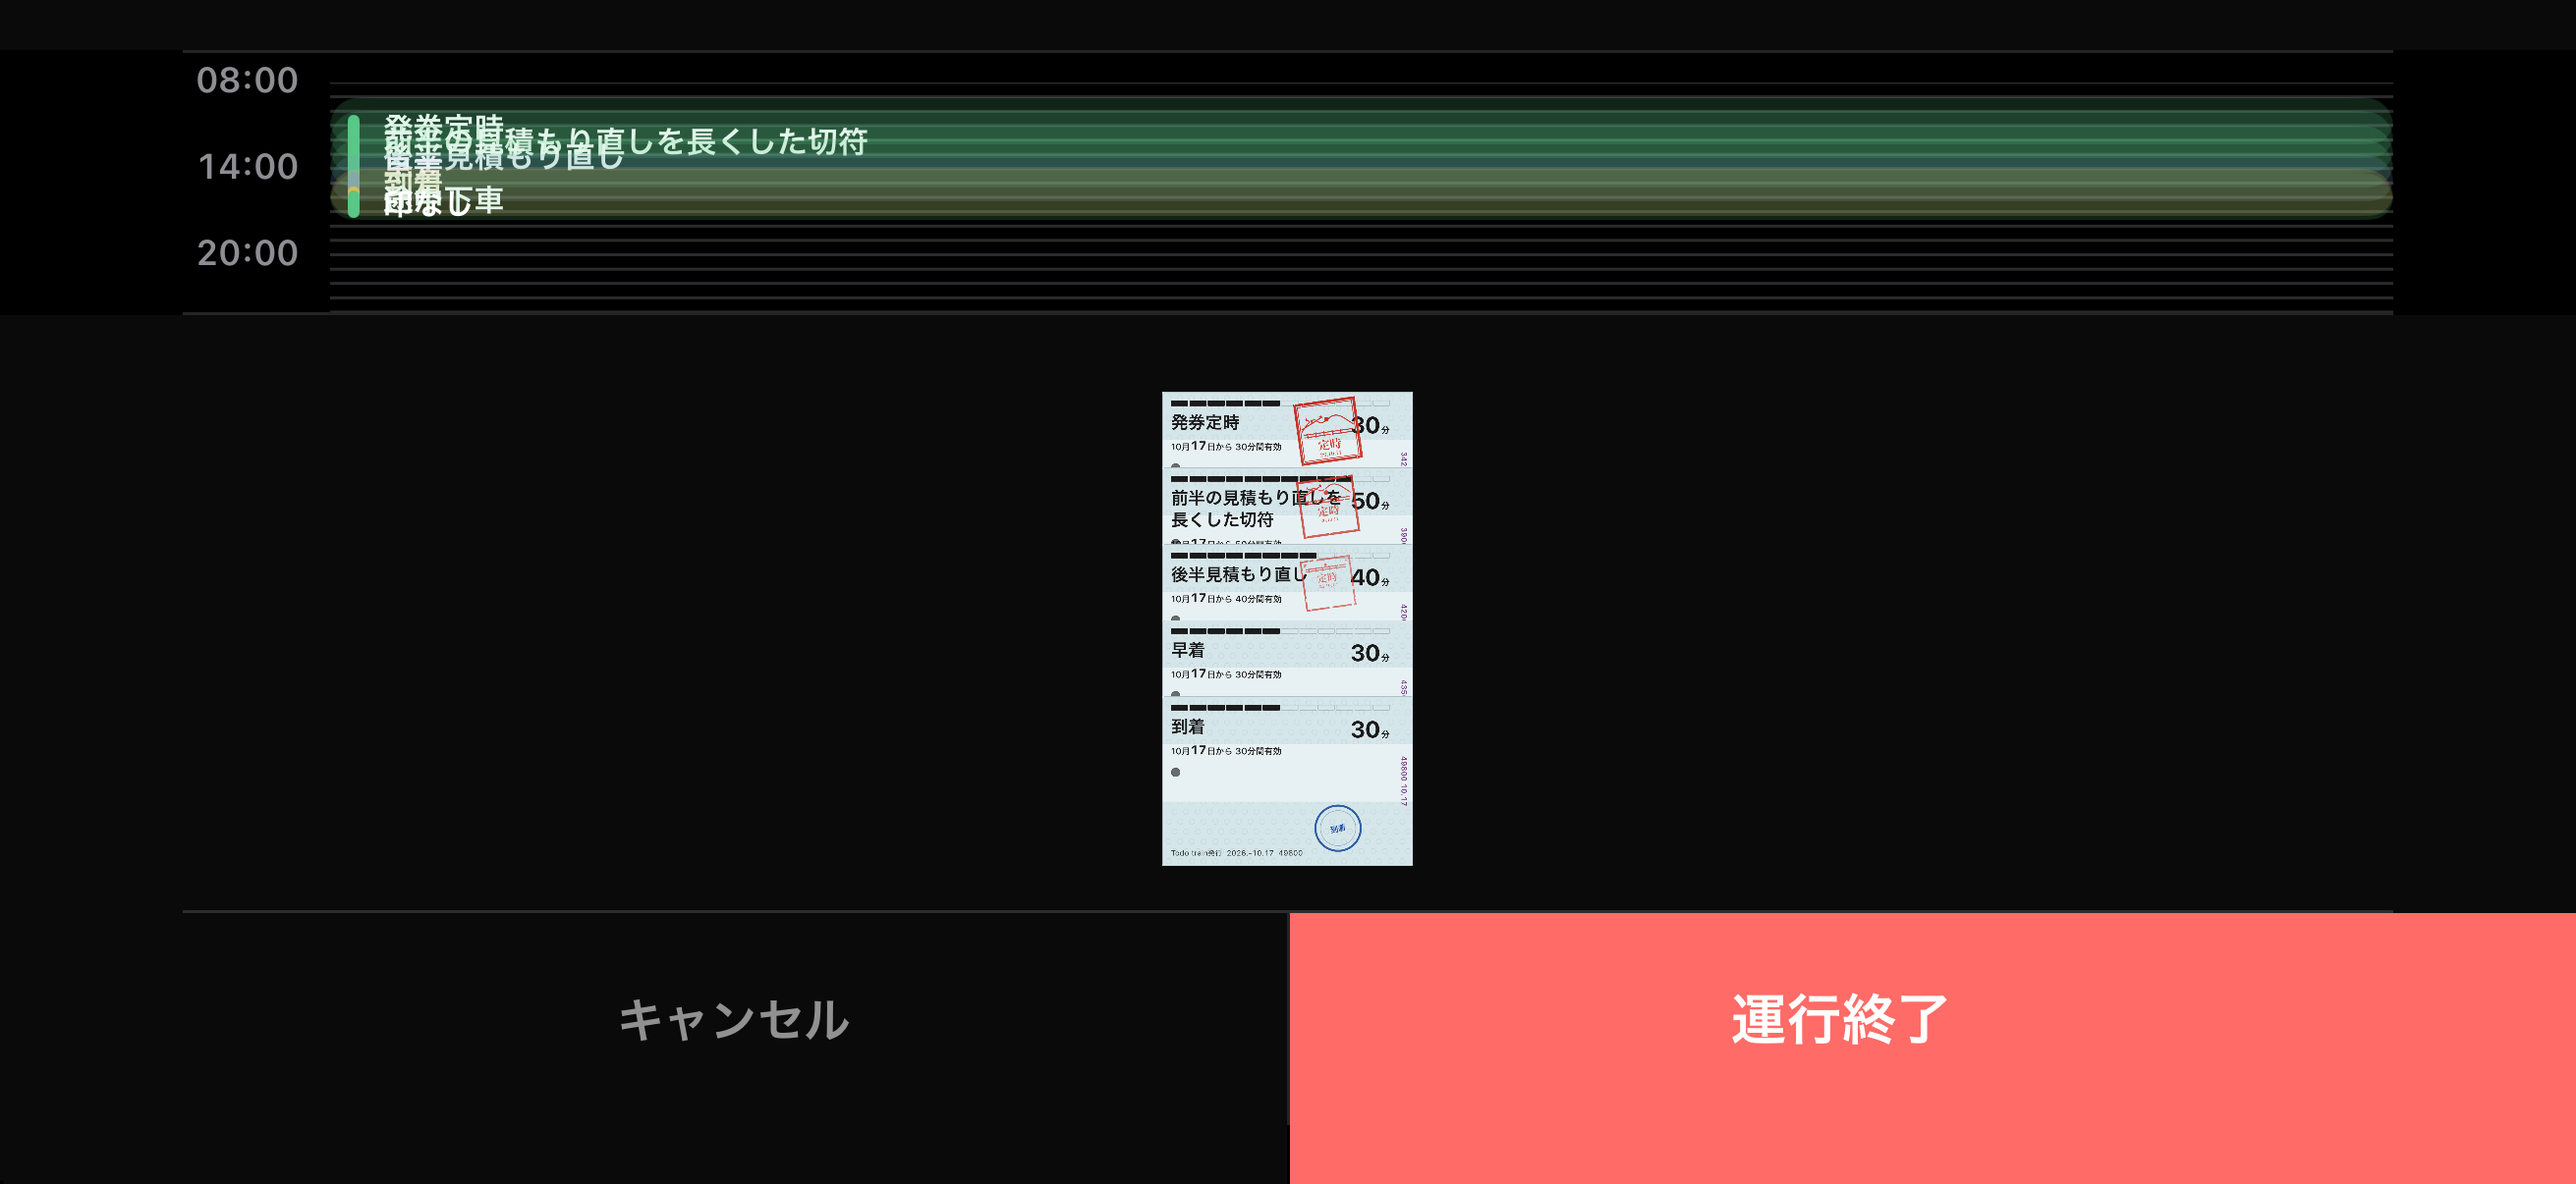
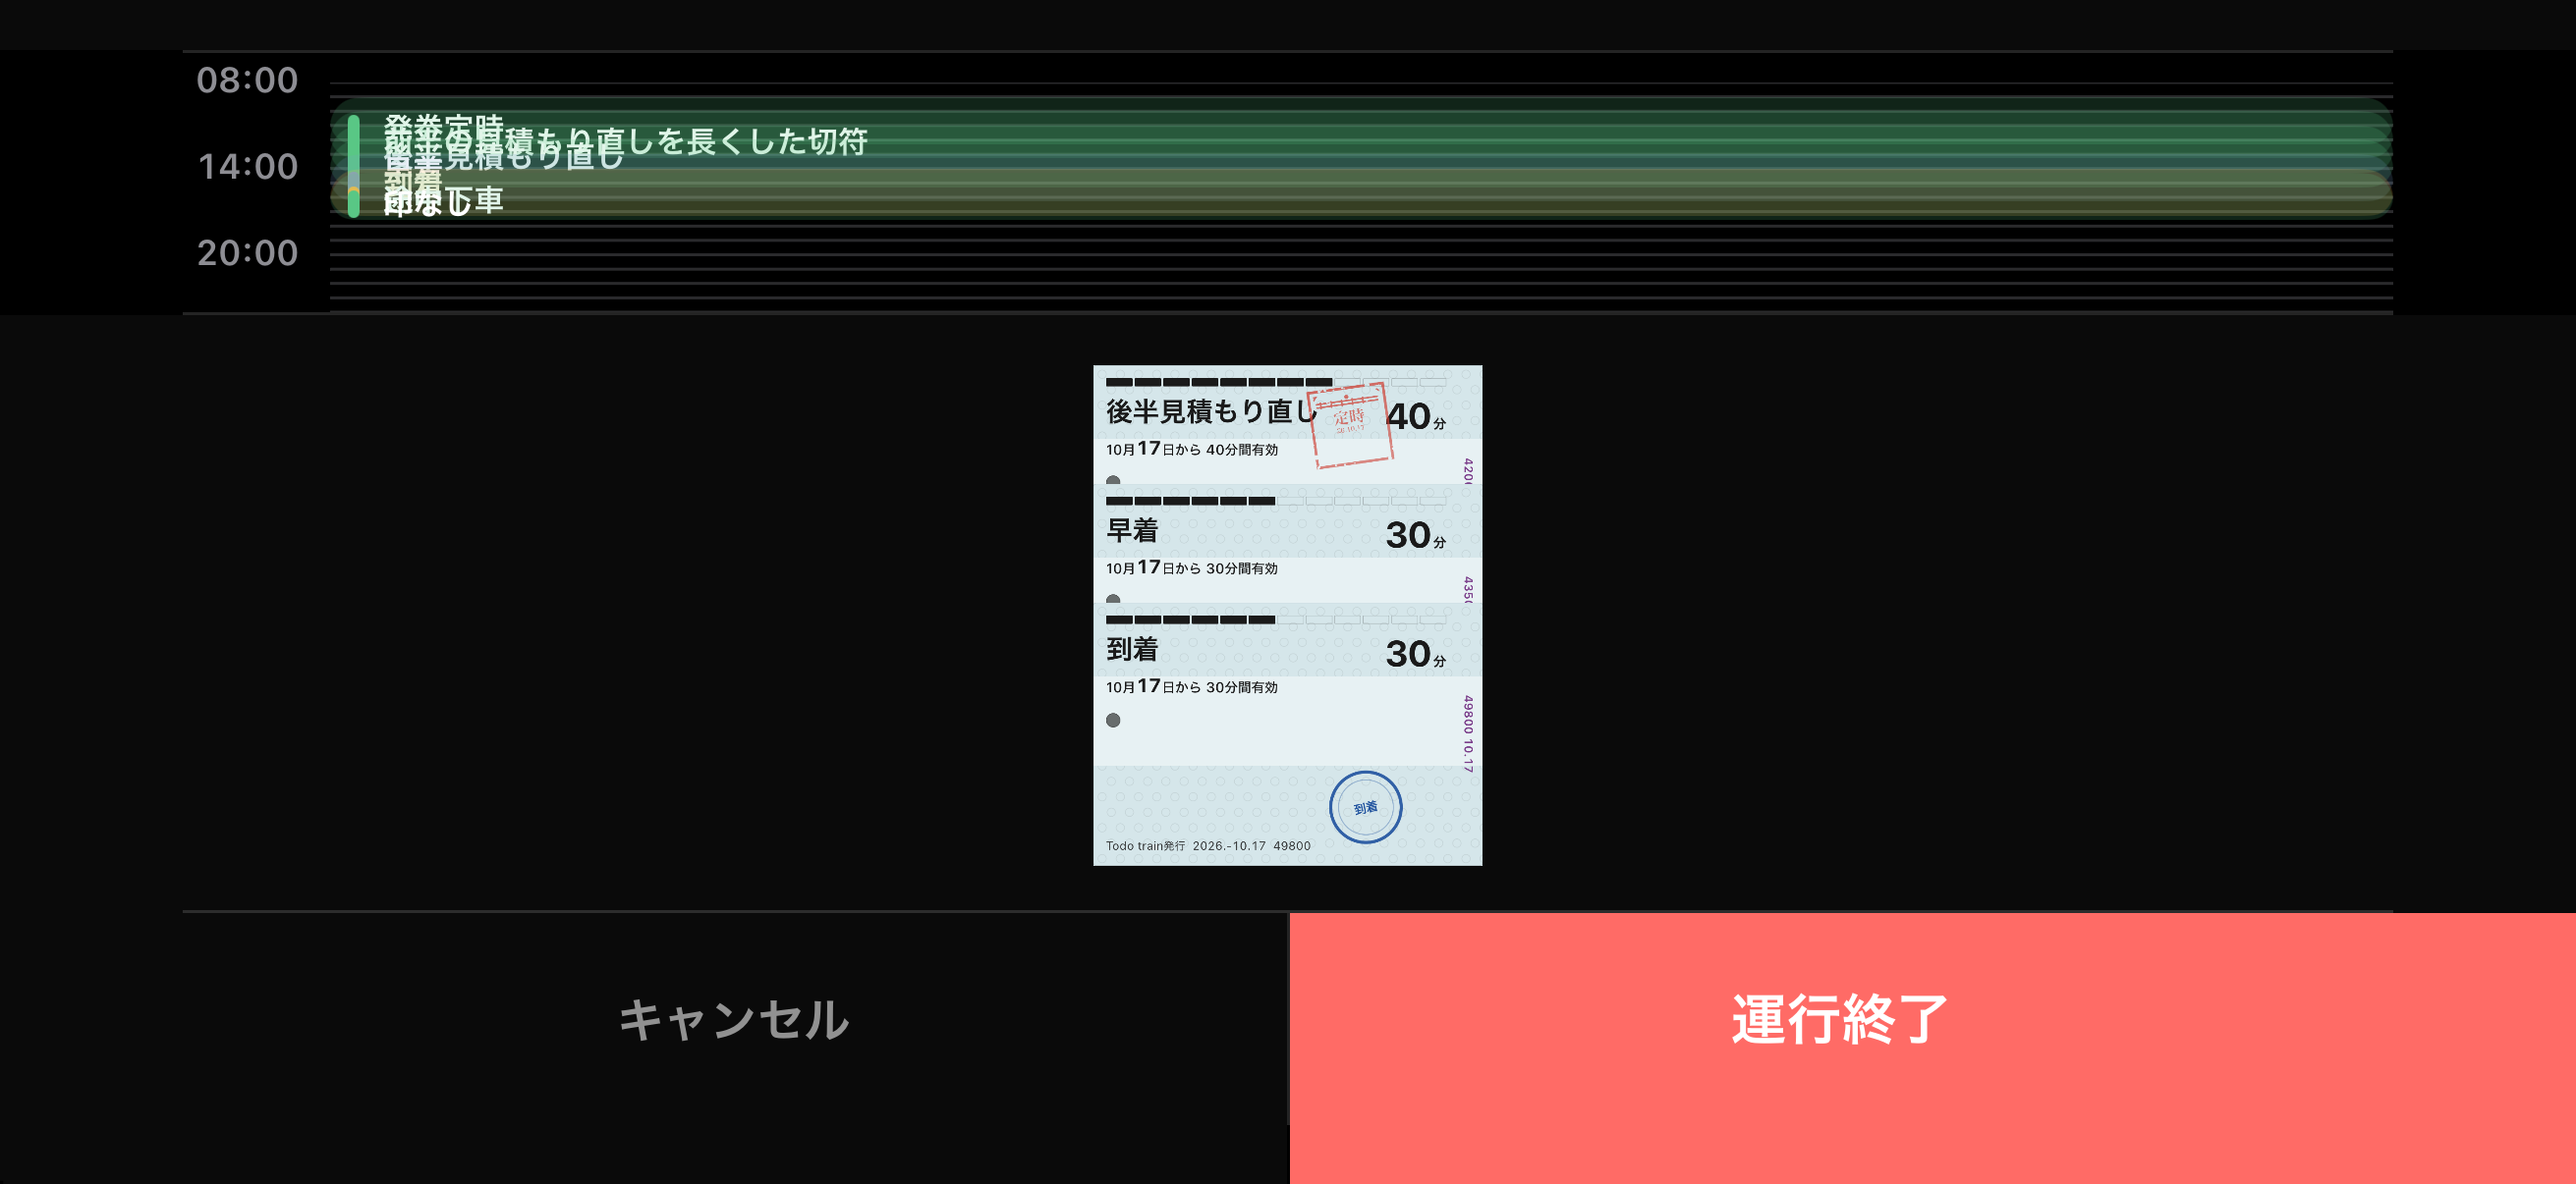
#171 PR C: 運行終了のタイムラインが読める高さを残す
束の帯が時計を約 100pt まで潰していた。帯の上限に当たったら切符を縮める前に奥行きを 4 から 3、足りなければ 2 に下げる。幅はこれまでより狭くしない。

Changed region(s): [[0.4016, 0.3068, 0.587, 0.7363]]

diff --git a/Todo train/Core/History/TicketStampBundleLayout.swift b/Todo train/Core/History/TicketStampBundleLayout.swift
@@ -14,6 +14,12 @@ enum TicketStampBundleLayout {
     static let peekRatio: CGFloat = 0.45
     static let standardMaxFanDepth = 4
     static let historyMaxFanDepth = 2
+    /// 運行終了で帯が上限を超えたとき、これより浅くはしない。
+    static let shutdownDepthFloor = 2
+    /// 運行終了のタイムラインに残す高さ。これより帯を高くしない。
+    static let shutdownTimelineMinimumHeight: CGFloat = 240
+    /// 前文と時計が同時に入らないときの時計の下限（`minimumClockHeight` + 余白）。
+    static let shutdownClockFloor: CGFloat = 92
     /// 手前の切符だけ、指の横移動にこの割合で付く。
     static let dragFollow: CGFloat = 0.28
     /// 付随の上限。シャトルで大きく動かしても券面が流れ出さない。
@@ -95,6 +101,79 @@ enum TicketStampBundleLayout {
         let height = room > 0 ? min(naturalH, room / factor) : min(naturalH, 1)
         let width = height * MarsTicketSpec.aspectWidth / MarsTicketSpec.aspectHeight
         return TicketSize(width: width, height: height, scale: width / baseWidth)
+    }
+
+    struct ShutdownArrangement: Equatable {
+        var depth: Int
+        var ticket: TicketSize
+        var bandHeight: CGFloat
+    }
+
+    /// 帯の上限に収まるいちばん深い奥行き。4 から試し、超えたら 3、それでも超えたら 2。
+    static func shutdownDepth(
+        ticketHeight: CGFloat,
+        bandLimit: CGFloat,
+        stampCount: Int
+    ) -> Int {
+        let preferred = stackDepth(
+            stampCount: stampCount,
+            focusIndex: max(0, stampCount - 1),
+            style: .shutdown
+        )
+        let floor = min(preferred, shutdownDepthFloor)
+        var depth = preferred
+        while depth > floor && bandHeight(ticketHeight: ticketHeight, depth: depth) > bandLimit {
+            depth -= 1
+        }
+        return depth
+    }
+
+    /// 運行終了の券面。タイムラインの高さを残す上限に当たったら、切符を縮める前に奥行きを減らす。
+    /// 幅は、時計の下限だけを残して depth 4 で収めたときより狭くしない。
+    static func shutdownArrangement(
+        containerWidth: CGFloat,
+        cabinHeight: CGFloat,
+        prefaceHeight: CGFloat,
+        stampCount: Int
+    ) -> ShutdownArrangement {
+        let fittingPreface = max(0, cabinHeight - shutdownClockFloor - prefaceHeight)
+        let prefaceFits = fittingPreface >= 96
+        let oldLimit = prefaceFits ? fittingPreface : max(0, cabinHeight - shutdownClockFloor)
+        let bandLimit = prefaceFits
+            ? max(0, cabinHeight - prefaceHeight - shutdownTimelineMinimumHeight)
+            : oldLimit
+        let target = shutdownTargetWidth(containerWidth: containerWidth)
+        let natural = MarsTicketSpec.height(forWidth: max(target, 1))
+        let preferred = stackDepth(
+            stampCount: stampCount,
+            focusIndex: max(0, stampCount - 1),
+            style: .shutdown
+        )
+        let floorTicket = fittedTicketSize(
+            targetWidth: target,
+            viewportHeight: max(oldLimit, 1),
+            depth: preferred
+        )
+        let depth = shutdownDepth(
+            ticketHeight: natural,
+            bandLimit: bandLimit,
+            stampCount: stampCount
+        )
+        var ticketHeight = natural
+        if bandHeight(ticketHeight: ticketHeight, depth: depth) > bandLimit {
+            let fitted = fittedTicketSize(
+                targetWidth: target,
+                viewportHeight: max(bandLimit, 1),
+                depth: depth
+            )
+            ticketHeight = max(fitted.height, floorTicket.height)
+        }
+        let width = ticketHeight * MarsTicketSpec.aspectWidth / MarsTicketSpec.aspectHeight
+        return ShutdownArrangement(
+            depth: depth,
+            ticket: TicketSize(width: width, height: ticketHeight, scale: width / baseWidth),
+            bandHeight: bandHeight(ticketHeight: ticketHeight, depth: depth)
+        )
     }
 
     /// 角判の外接矩形。回転後も券面座標。

diff --git a/Todo trainTests/TicketStampBundleLayoutTests.swift b/Todo trainTests/TicketStampBundleLayoutTests.swift
@@ -85,6 +85,52 @@ struct TicketStampBundleLayoutTests {
         #expect(band <= 280)
     }
 
+    @Test func shutdownDepthDropsBeforeShrinkingTheTicket() {
+        let height: CGFloat = 200
+        let band4 = TicketStampBundleLayout.bandHeight(ticketHeight: height, depth: 4)
+        let band3 = TicketStampBundleLayout.bandHeight(ticketHeight: height, depth: 3)
+        let band2 = TicketStampBundleLayout.bandHeight(ticketHeight: height, depth: 2)
+        #expect(TicketStampBundleLayout.shutdownDepth(ticketHeight: height, bandLimit: band4, stampCount: 5) == 4)
+        #expect(TicketStampBundleLayout.shutdownDepth(ticketHeight: height, bandLimit: band4 - 1, stampCount: 5) == 3)
+        #expect(TicketStampBundleLayout.shutdownDepth(ticketHeight: height, bandLimit: band3 - 1, stampCount: 5) == 2)
+        #expect(TicketStampBundleLayout.shutdownDepth(ticketHeight: height, bandLimit: band2 - 1, stampCount: 5) == 2)
+        #expect(TicketStampBundleLayout.shutdownDepth(ticketHeight: height, bandLimit: 10, stampCount: 2) == 1)
+        #expect(TicketStampBundleLayout.shutdownDepth(ticketHeight: height, bandLimit: 10, stampCount: 1) == 0)
+    }
+
+    @Test func shutdownArrangementReservesTheTimelineWithoutNarrowing() {
+        let cabin: CGFloat = 700
+        let preface: CGFloat = 168
+        let width: CGFloat = 360
+        let arrangement = TicketStampBundleLayout.shutdownArrangement(
+            containerWidth: width,
+            cabinHeight: cabin,
+            prefaceHeight: preface,
+            stampCount: 5
+        )
+        #expect(arrangement.depth == 2)
+        let target = TicketStampBundleLayout.shutdownTargetWidth(containerWidth: width)
+        let oldLimit = cabin - TicketStampBundleLayout.shutdownClockFloor - preface
+        let floor = TicketStampBundleLayout.fittedTicketSize(
+            targetWidth: target,
+            viewportHeight: oldLimit,
+            depth: 4
+        )
+        #expect(arrangement.ticket.width + 0.01 >= floor.width)
+        let timeline = cabin - preface - arrangement.bandHeight
+        #expect(timeline + 0.01 >= TicketStampBundleLayout.shutdownTimelineMinimumHeight)
+
+        let loose = TicketStampBundleLayout.shutdownArrangement(
+            containerWidth: 200,
+            cabinHeight: 900,
+            prefaceHeight: 80,
+            stampCount: 6
+        )
+        #expect(loose.depth == 4)
+        let natural = MarsTicketSpec.height(forWidth: TicketStampBundleLayout.shutdownTargetWidth(containerWidth: 200))
+        #expect(abs(loose.ticket.height - natural) < 0.01)
+    }
+
     @Test func cornerSealBoundsStayInsideThePeekAtSixDegrees() {
         let width: CGFloat = 300
         let height = MarsTicketSpec.height(forWidth: width)

diff --git a/Todo train/Features/Service/ServiceShutdownCover.swift b/Todo train/Features/Service/ServiceShutdownCover.swift
@@ -132,27 +132,19 @@ struct ServiceShutdownCover: View {
     private func cabinBody(now: Date) -> some View {
         GeometryReader { geo in
             let stampCount = stampBundle?.stamps.count ?? 0
-            let depth = TicketStampBundleLayout.stackDepth(
-                stampCount: stampCount,
-                focusIndex: max(0, stampCount - 1),
-                style: .shutdown
-            )
             let clockFloor = Self.minimumClockHeight + 4
             let fittingPreface = max(0, geo.size.height - clockFloor - prefaceHeight)
-            let clockOnly = max(0, geo.size.height - clockFloor)
             // 前文まで残すと横向きで束が消える。そのときは前文をスクロールに回し、時計の下限だけ守る。
             let prefaceFits = fittingPreface >= 96
-            let bandLimit = prefaceFits ? fittingPreface : clockOnly
-            let bundleBand = stampCount == 0
-                ? 0
-                : min(
-                    TicketStampBundleDeckView.shutdownBandHeight(
-                        containerWidth: geo.size.width,
-                        bandViewportHeight: bandLimit,
-                        depth: depth
-                    ),
-                    bandLimit
-                )
+            // 盤の余白のぶん、券面の帯より枠は高い。タイムラインの計算は券面の帯で行う。
+            let bandChrome: CGFloat = 33
+            let arrangement = TicketStampBundleLayout.shutdownArrangement(
+                containerWidth: max(0, geo.size.width - 44),
+                cabinHeight: max(0, geo.size.height - bandChrome),
+                prefaceHeight: prefaceHeight,
+                stampCount: stampCount
+            )
+            let bundleBand = stampCount == 0 ? 0 : arrangement.bandHeight + bandChrome
             let scrollHeight = max(0, geo.size.height - bundleBand)
             let clockHeight = max(
                 Self.minimumClockHeight,
@@ -224,7 +216,9 @@ struct ServiceShutdownCover: View {
                             stamps: stampBundle.stamps,
                             focusIndex: $bundleFocusIndex,
                             style: .shutdown,
-                            dayBoundaries: []
+                            dayBoundaries: [],
+                            shutdownDepthCap: arrangement.depth,
+                            shutdownTicket: arrangement.ticket
                         )
                         .padding(.horizontal, 8)
                         .padding(.vertical, 2)

diff --git a/Todo train/DesignSystem/TicketStampBundleDeckView.swift b/Todo train/DesignSystem/TicketStampBundleDeckView.swift
@@ -26,6 +26,10 @@ struct TicketStampBundleDeckView: View {
     var onSelect: (TicketStampBundleAssembly.Stamp) -> Void = { _ in }
     /// 長押しのあと横に固定しているあいだ、ビューアの縦操作を止める。
     var verticalGesturesLocked: Binding<Bool> = .constant(false)
+    /// 運行終了でタイムラインを残すために浅くした奥行き。
+    var shutdownDepthCap: Int? = nil
+    /// 運行終了の券面。帯の中でさらに縮めない。
+    var shutdownTicket: TicketStampBundleLayout.TicketSize? = nil
 
     @Environment(\.accessibilityReduceMotion) private var reduceMotion
     @Environment(\.verticalSizeClass) private var verticalSizeClass
@@ -49,7 +53,9 @@ struct TicketStampBundleDeckView: View {
     }
 
     private var maxFanDepth: Int {
-        TicketStampBundleLayout.maxFanDepth(for: style)
+        let standard = TicketStampBundleLayout.maxFanDepth(for: style)
+        guard style == .shutdown, let cap = shutdownDepthCap else { return standard }
+        return min(standard, max(0, cap))
     }
 
     /// 帯と券面の縮尺。手前が最新のときの奥行きで固定し、めくるたびに高さが変わらない。
@@ -184,6 +190,13 @@ struct TicketStampBundleDeckView: View {
     private func layoutMetrics(in size: CGSize) -> LayoutMetrics {
         switch style {
         case .shutdown:
+            if let ticket = shutdownTicket {
+                return LayoutMetrics(
+                    ticketWidth: ticket.width,
+                    ticketHeight: ticket.height,
+                    scale: ticket.scale
+                )
+            }
             let fitted = TicketStampBundleLayout.fittedTicketSize(
                 targetWidth: TicketStampBundleLayout.shutdownTargetWidth(containerWidth: size.width),
                 viewportHeight: size.height,
